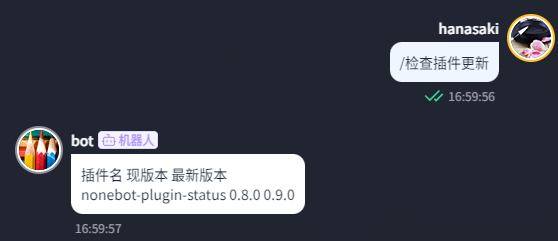
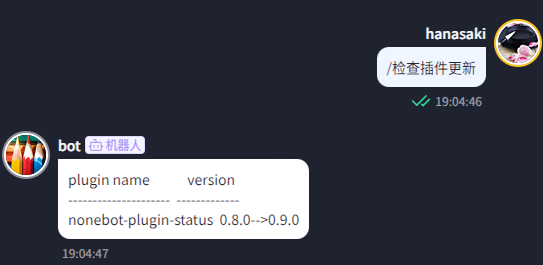
🚩 完成对查看/更新现有插件的html渲染

diff --git a/nonebot_plugin_updater/commands.py b/nonebot_plugin_updater/commands.py
@@ -1,10 +1,13 @@
-from os import close
 from pathlib import Path
-from typing import Any, NoReturn
+from typing import Any
 
 from arclet.alconna import Arparma
 from nonebot import require
+from tabulate import tabulate
 
+from nonebot_plugin_updater.utils.addition_for_htmlrender import template_element_to_pic
+
+from .config import plugin_config
 from .utils.common import (
     find_project_root,
     get_plugin_module_list,
@@ -21,6 +24,7 @@ from nonebot_plugin_alconna import (
     Args,
     Match,
     Option,
+    UniMessage,
     on_alconna,
 )
 
@@ -47,18 +51,45 @@ async def _() -> None:
     plugin_list: list[str] = []
     for moudle in plugin_module_list:
         plugin_list.append(moudle.replace('_', '-'))
-    msg: str = '通过pypi安装的插件有：\n'
-    for plugin in plugin_list:
-        msg = msg + f'{plugin}\n'
+    if plugin_config.info_send_mode == 'text':
+        headers: list[str] = ['通过pypi安装的插件']
+        table: list[list[str]] = [[plugin for plugin in plugin_list]]
+        msg = tabulate(table, headers, showindex=True)
+    else:
+        template_path = Path(__file__).parent / 'templates'
+        img: bytes = await template_element_to_pic(
+            str(template_path),
+            template_name='plugin_info.jinja2',
+            templates={'plugins': [plugin for plugin in plugin_list]},
+            element='#container',
+            wait=2,
+            omit_background=True,
+        )
+        msg = UniMessage().image(raw=img)
     await g_plugin_list.finish(msg)
 
 
 @check_update.handle()
 async def _() -> None:
     plugin_update_list: list[PluginInfo] = await get_plugin_update_list()
-    msg: str = '插件名 现版本 最新版本\n'
-    for plugin in plugin_update_list:
-        msg = msg + f'{plugin.name} {plugin.current_version} {plugin.latest_version}'
+    if plugin_config.info_send_mode == 'text':
+        headers: list[str] = ['plugin name', 'version']
+        table: list[list[str]] = [
+            [plugin.name, f'{plugin.current_version + '-->' + plugin.latest_version}']
+            for plugin in plugin_update_list
+        ]
+        msg = tabulate(table, headers)
+    else:
+        template_path = Path(__file__).parent / 'templates'
+        img: bytes = await template_element_to_pic(
+            str(template_path),
+            template_name='check_plugin_update.jinja2',
+            templates={'plugins': plugin_update_list},
+            element='#container',
+            wait=2,
+            omit_background=True,
+        )
+        msg = UniMessage().image(raw=img)
     await check_update.finish(msg)
 
 

diff --git a/nonebot_plugin_updater/utils/addition_for_htmlrender.py b/nonebot_plugin_updater/utils/addition_for_htmlrender.py
@@ -1,0 +1,63 @@
+from __future__ import annotations
+
+from typing import Any, Literal
+
+import jinja2
+from nonebot import logger, require
+
+require('nonebot_plugin_htmlrender')
+from nonebot_plugin_htmlrender import get_new_page, md_to_pic  # noqa: E402, F401
+
+
+async def template_element_to_pic(
+    template_path: str,
+    template_name: str,
+    templates: dict[Any, Any],
+    element: str,
+    wait: float = 0,
+    type: Literal['jpeg', 'png'] = 'png',  # noqa: A002
+    quality: int | None = None,
+    device_scale_factor: float = 2,
+    filters: dict[str, Any] | None = None,
+    omit_background: bool | None = None,
+    **kwargs,
+) -> bytes:
+    """使用jinja2模板引擎通过html生成图片
+
+    Args:
+        template_path (str): 模板路径
+        template_name (str): 模板名
+        templates (dict[Any, Any]): 模板内参数 如: {"name": "abc"}
+        element (str): CSS选择器，要截取的元素
+        wait (float, optional): 网页载入等待时间. Defaults to 0.
+        type (Literal["jpeg", "png"]): 图片类型, 默认 png
+        quality (int, optional): 图片质量 0-100 当为`png`时无效
+        device_scale_factor (float, optional): 缩放比例,类型为float,值越大越清晰(真正想让图片清晰更优先请调整此选项)
+        filters (dict[str, Any] | None, optional): 自定义过滤器
+        omit_background (bool | None, optional): 截图背景是否透明
+        **kwargs: 传入 page 的参数
+
+    Returns:
+        bytes: 图片 可直接发送
+    """
+
+    template_env: jinja2.Environment = jinja2.Environment(
+        loader=jinja2.FileSystemLoader(template_path), enable_async=True
+    )
+
+    if filters:
+        for filter_name, filter_func in filters.items():
+            template_env.filters[filter_name] = filter_func
+            logger.debug(f'加载自定义过滤器 {filter_name}')
+
+    template: jinja2.Template = template_env.get_template(template_name)
+    html: str = await template.render_async(**templates)
+    async with get_new_page(device_scale_factor, **kwargs) as page:
+        page.on('console', lambda msg: logger.debug(f'浏览器控制台: {msg.text}'))
+        await page.goto(f'file://{template_path}')
+        await page.set_content(html, wait_until='networkidle')
+        await page.wait_for_timeout(wait)
+        img: bytes = await page.locator(element).screenshot(
+            type=type, quality=quality, omit_background=omit_background
+        )
+        return img

diff --git a/nonebot_plugin_updater/config.py b/nonebot_plugin_updater/config.py
@@ -1,3 +1,5 @@
+from typing import Literal
+
 from nonebot import get_plugin_config
 from pydantic import BaseModel
 
@@ -7,6 +9,8 @@ class Config(BaseModel):
 
     # 获取插件信息的url
     pypi_info_url: str = 'https://mirrors.ustc.edu.cn/pypi'
+    # 发送信息的模式
+    info_send_mode: Literal['text', 'pic'] = 'pic'
 
 
 plugin_config = get_plugin_config(Config)

diff --git a/nonebot_plugin_updater/utils/updater.py b/nonebot_plugin_updater/utils/updater.py
@@ -38,7 +38,7 @@ class Updater:
         raise Exception('无法重启')
 
     @staticmethod
-    def _uvicorn_getserver() -> Server:
+    def _uvicorn_getserver() -> 'Server':
         from uvicorn.server import Server
 
         fis = inspect.getouterframes(inspect.currentframe())

diff --git a/README.md b/README.md
@@ -52,15 +52,20 @@
 
 </details>
 
+## ⚠ 注意
+
+此插件只支持`nb-cli`用户~~（没用 cli 安装的项目使用的路径太复杂了）~~
+
 ## 🎉 使用
 
 ### 🔧 插件配置
 
 请在你的 bot 根目录下的`.env` `.env.*`中添加以下字段
 
-|     字段      | 类型 |               默认值               | 可选值 |          描述          | 必填 |
-| :-----------: | :--: | :--------------------------------: | :----: | :--------------------: | :--: |
-| PYPI_INFO_URL | str  | "https://mirrors.ustc.edu.cn/pypi" |   -    | 获取 pypi 包信息的 url |  否  |
+|      字段      | 类型 |               默认值               |    可选值     |          描述           | 必填 |
+| :------------: | :--: | :--------------------------------: | :-----------: | :---------------------: | :--: |
+| PYPI_INFO_URL  | str  | "https://mirrors.ustc.edu.cn/pypi" |       -       | 获取 pypi 包信息的 url  |  否  |
+| INFO_SEND_MODE | str  |               "pic"                | "text", "pic" | 发送插件信息/更新的方式 |  否  |
 
 ### ✨ 功能介绍
 
@@ -69,9 +74,11 @@
 
 - 检查插件更新<br>
   ![check_update](./docs/check_update.png)
+  ![check_update_pic](./docs/check_update_pic.png)
 
 - 更新插件<br>
   ![update_plugin](./docs/update_plugin.png)
+  ![check_update_pic](./docs/check_update_pic.png)
 
 - 远程关闭 nb<br>
   ![close_nb](./docs/close_nb.png)
@@ -95,8 +102,8 @@
 
 ### 🚩 TODO
 
-- [ ] 使用 html 渲染插件列表及插件更新列表
+- [x] 使用 html 渲染插件列表及插件更新列表
 
 ## 致谢
 
-感谢[nonebot-plugin-runagain](https://github.com/NCBM/nonebot-plugin-runagain)对本项目的启发 ~~(直接开抄)~~ ，但是由于`nonebot-pluign-runagain`中使用的`execlp`在重启后原进程仍存在，会导致重启后使用`Ctrl+C`正常无法关闭 uvicorn server，本项目中采用`subprocess`模块对其进行了改进，上述问题得以解决。
+感谢[nonebot-plugin-runagain](https://github.com/NCBM/nonebot-plugin-runagain)对本项目的启发 ~~(直接开抄)~~ 。`nonebot-plugin-runagain`在重启后原进程仍存在，会导致重启后使用`Ctrl+C`正常无法关闭 uvicorn server，本项目中采用对其进行了改进，上述问题得以解决。
